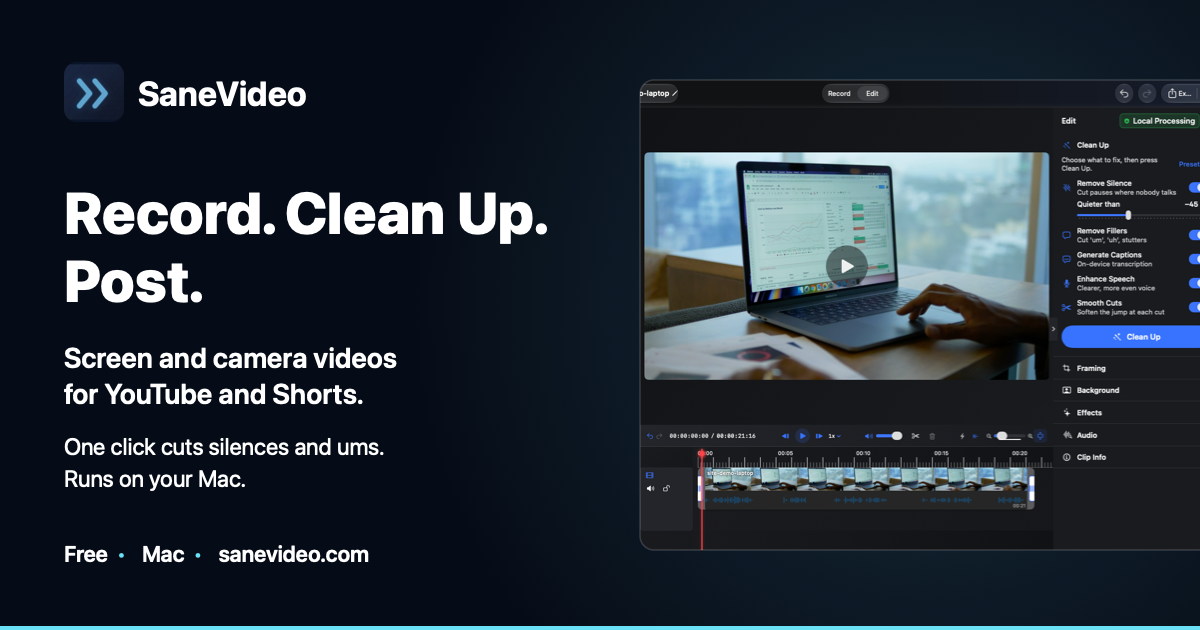
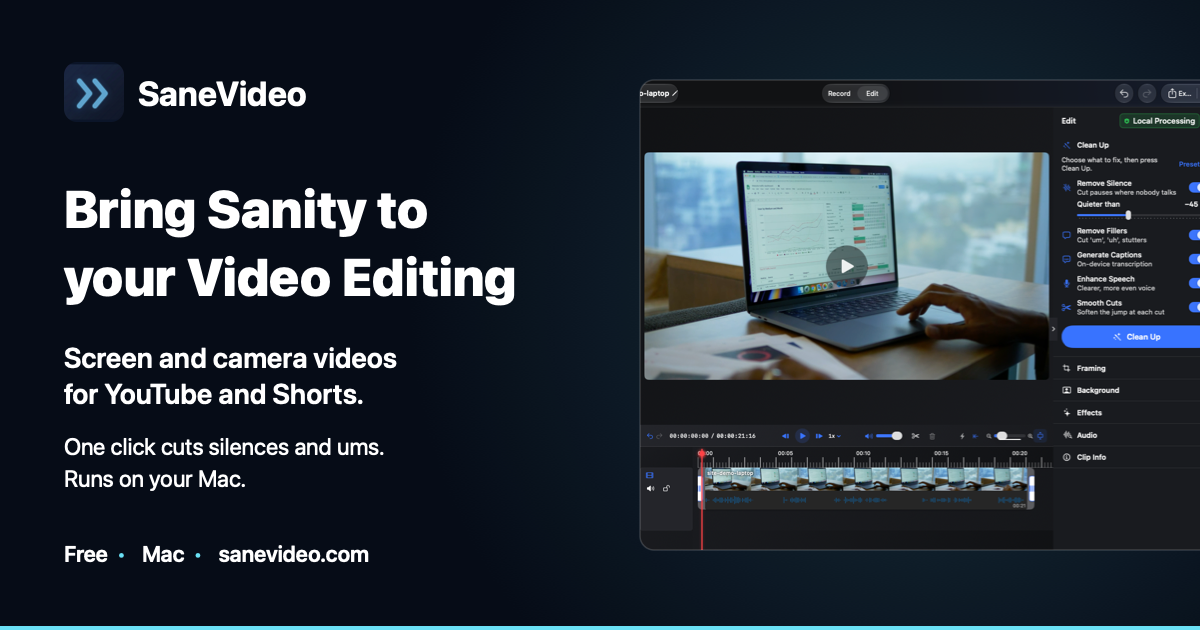
Website: "Bring Sanity to your Video Editing" headline like every SaneApps site; GitHub in the menus

Changed region(s): [[0.0308, 0.3016, 0.4625, 0.4825]]

diff --git a/docs/index.html b/docs/index.html
@@ -13,8 +13,8 @@
   <meta property="og:url" content="https://sanevideo.com/">
   <meta property="og:title" content="SaneVideo: Screen and Camera Recorder for YouTube on Mac">
   <meta property="og:description" content="Record your screen with your camera in a bubble. One click cuts the silences and ums. Captions, YouTube exports and vertical Shorts, all made on your Mac. Free.">
-  <meta property="og:image" content="https://sanevideo.com/images/og-image.png?v=20261024">
-  <meta property="og:image:secure_url" content="https://sanevideo.com/images/og-image.png?v=20261024">
+  <meta property="og:image" content="https://sanevideo.com/images/og-image.png?v=20261024b">
+  <meta property="og:image:secure_url" content="https://sanevideo.com/images/og-image.png?v=20261024b">
   <meta property="og:image:type" content="image/png">
   <meta property="og:image:width" content="1200">
   <meta property="og:image:height" content="630">
@@ -25,7 +25,7 @@
   <meta name="twitter:url" content="https://sanevideo.com/">
   <meta name="twitter:title" content="SaneVideo: Screen and Camera Recorder for YouTube on Mac">
   <meta name="twitter:description" content="Record your screen with your camera in a bubble. One click cuts the silences and ums. Captions, YouTube exports and vertical Shorts, all made on your Mac. Free.">
-  <meta name="twitter:image" content="https://sanevideo.com/images/og-image.png?v=20261024">
+  <meta name="twitter:image" content="https://sanevideo.com/images/og-image.png?v=20261024b">
   <meta name="twitter:image:alt" content="SaneVideo: Record. Clean Up. Post. Screen and camera videos for YouTube and Shorts, with the SaneVideo editor beside the text.">
   <link rel="icon" type="image/png" sizes="32x32" href="/images/favicon-32.png">
   <link rel="apple-touch-icon" href="/images/apple-touch-icon.png">
@@ -43,7 +43,7 @@
         "url": "https://sanevideo.com/",
         "downloadUrl": "https://sanevideo.com/download",
         "installUrl": "https://apps.apple.com/us/app/sanevideo/id6770294375",
-        "image": "https://sanevideo.com/images/og-image.png?v=20261024",
+        "image": "https://sanevideo.com/images/og-image.png?v=20261024b",
         "screenshot": [
           "https://sanevideo.com/images/sanevideo-editor-1398.webp",
           "https://sanevideo.com/images/sanevideo-timeline-after.webp",
@@ -113,6 +113,7 @@
         <a href="/#features">Features</a>
         <a href="/#price">Price</a>
         <a href="/support">Support</a>
+        <a href="https://github.com/sane-apps/SaneVideo">GitHub</a>
         <a class="button small" href="/download">Download</a>
       </nav>
       <details class="menu">
@@ -123,6 +124,7 @@
           <a href="/#price">Price</a>
           <a href="/download">Download</a>
           <a href="/support">Support</a>
+          <a href="https://github.com/sane-apps/SaneVideo">GitHub</a>
           <a href="/privacy">Privacy</a>
         </div>
       </details>
@@ -133,13 +135,13 @@
     <section class="hero" aria-labelledby="hero-title">
       <div class="wrap">
         <div>
-          <h1 id="hero-title">Record your screen and face.</h1>
-          <p class="lead">One click cuts the silences and ums. Captions and Shorts, made on your Mac.</p>
+          <h1 id="hero-title">Bring <em>Sanity</em> to your Video Editing</h1>
+          <p class="lead">Record your screen and camera. One click cuts the silences and ums. Captions and Shorts for YouTube, made on your Mac.</p>
           <div class="actions">
             <a class="button" href="/download">Download free</a>
             <a class="button ghost" href="https://apps.apple.com/us/app/sanevideo/id6770294375">Mac App Store</a>
           </div>
-          <p class="facts"><span>Free</span><span>macOS 26 or later</span><span>Apple silicon</span><span>100% Transparent Code</span></p>
+          <p class="facts"><span>Free</span><span>macOS 26 or later</span><span>Apple silicon</span><span><a href="https://github.com/sane-apps/SaneVideo">100% Transparent Code</a></span></p>
         </div>
         <figure class="shot" style="margin:0">
           <img src="/images/sanevideo-editor-1398.webp"

diff --git a/docs/support.html b/docs/support.html
@@ -12,8 +12,8 @@
   <meta property="og:url" content="https://sanevideo.com/support">
   <meta property="og:title" content="SaneVideo Support: Recording, Clean Up and Export Help">
   <meta property="og:description" content="Get help with SaneVideo: screen recording permission, camera problems, Clean Up, captions and where exports go. Report a bug from the app or email us.">
-  <meta property="og:image" content="https://sanevideo.com/images/og-image.png?v=20261024">
-  <meta property="og:image:secure_url" content="https://sanevideo.com/images/og-image.png?v=20261024">
+  <meta property="og:image" content="https://sanevideo.com/images/og-image.png?v=20261024b">
+  <meta property="og:image:secure_url" content="https://sanevideo.com/images/og-image.png?v=20261024b">
   <meta property="og:image:type" content="image/png">
   <meta property="og:image:width" content="1200">
   <meta property="og:image:height" content="630">
@@ -23,7 +23,7 @@
   <meta name="twitter:url" content="https://sanevideo.com/support">
   <meta name="twitter:title" content="SaneVideo Support: Recording, Clean Up and Export Help">
   <meta name="twitter:description" content="Get help with SaneVideo: screen recording permission, camera problems, Clean Up, captions and where exports go. Report a bug from the app or email us.">
-  <meta name="twitter:image" content="https://sanevideo.com/images/og-image.png?v=20261024">
+  <meta name="twitter:image" content="https://sanevideo.com/images/og-image.png?v=20261024b">
   <meta name="twitter:image:alt" content="SaneVideo: Record. Clean Up. Post. Screen and camera videos for YouTube and Shorts, with the SaneVideo editor beside the text.">
   <link rel="icon" type="image/png" sizes="32x32" href="/images/favicon-32.png">
   <link rel="apple-touch-icon" href="/images/apple-touch-icon.png">
@@ -51,6 +51,7 @@
         <a href="/#features">Features</a>
         <a href="/#price">Price</a>
         <a href="/support" aria-current="page">Support</a>
+        <a href="https://github.com/sane-apps/SaneVideo">GitHub</a>
         <a class="button small" href="/download">Download</a>
       </nav>
       <details class="menu">
@@ -106,6 +107,7 @@
           <a href="/download">Download</a>
           <a href="https://apps.apple.com/us/app/sanevideo/id6770294375">Mac App Store</a>
           <a href="/support">Support</a>
+          <a href="https://github.com/sane-apps/SaneVideo">GitHub</a>
           <a href="/privacy">Privacy</a>
           <a href="https://github.com/sane-apps/SaneVideo">Source on GitHub</a>
           <a href="https://github.com/sponsors/MrSaneApps">Sponsor on GitHub</a>

diff --git a/docs/privacy.html b/docs/privacy.html
@@ -12,8 +12,8 @@
   <meta property="og:url" content="https://sanevideo.com/privacy">
   <meta property="og:title" content="SaneVideo Privacy Policy">
   <meta property="og:description" content="SaneVideo keeps recording, editing, captions and export on your Mac. This policy lists what the app does send: update checks, anonymous app counts, a one-time speech model download, and support email you choose to send.">
-  <meta property="og:image" content="https://sanevideo.com/images/og-image.png?v=20261024">
-  <meta property="og:image:secure_url" content="https://sanevideo.com/images/og-image.png?v=20261024">
+  <meta property="og:image" content="https://sanevideo.com/images/og-image.png?v=20261024b">
+  <meta property="og:image:secure_url" content="https://sanevideo.com/images/og-image.png?v=20261024b">
   <meta property="og:image:type" content="image/png">
   <meta property="og:image:width" content="1200">
   <meta property="og:image:height" content="630">
@@ -23,7 +23,7 @@
   <meta name="twitter:url" content="https://sanevideo.com/privacy">
   <meta name="twitter:title" content="SaneVideo Privacy Policy">
   <meta name="twitter:description" content="SaneVideo keeps recording, editing, captions and export on your Mac. This policy lists what the app does send: update checks, anonymous app counts, a one-time speech model download, and support email you choose to send.">
-  <meta name="twitter:image" content="https://sanevideo.com/images/og-image.png?v=20261024">
+  <meta name="twitter:image" content="https://sanevideo.com/images/og-image.png?v=20261024b">
   <meta name="twitter:image:alt" content="SaneVideo: Record. Clean Up. Post. Screen and camera videos for YouTube and Shorts, with the SaneVideo editor beside the text.">
   <link rel="icon" type="image/png" sizes="32x32" href="/images/favicon-32.png">
   <link rel="apple-touch-icon" href="/images/apple-touch-icon.png">
@@ -51,6 +51,7 @@
         <a href="/#features">Features</a>
         <a href="/#price">Price</a>
         <a href="/support">Support</a>
+        <a href="https://github.com/sane-apps/SaneVideo">GitHub</a>
         <a class="button small" href="/download">Download</a>
       </nav>
       <details class="menu">
@@ -61,6 +62,7 @@
           <a href="/#price">Price</a>
           <a href="/download">Download</a>
           <a href="/support">Support</a>
+          <a href="https://github.com/sane-apps/SaneVideo">GitHub</a>
           <a href="/privacy" aria-current="page">Privacy</a>
         </div>
       </details>

diff --git a/docs/download.html b/docs/download.html
@@ -12,8 +12,8 @@
   <meta property="og:url" content="https://sanevideo.com/download">
   <meta property="og:title" content="Download SaneVideo for Mac (Free)">
   <meta property="og:description" content="Download SaneVideo free for Macs with Apple silicon and macOS 26 or later, or get it from the Mac App Store. Install steps and a first test inside.">
-  <meta property="og:image" content="https://sanevideo.com/images/og-image.png?v=20261024">
-  <meta property="og:image:secure_url" content="https://sanevideo.com/images/og-image.png?v=20261024">
+  <meta property="og:image" content="https://sanevideo.com/images/og-image.png?v=20261024b">
+  <meta property="og:image:secure_url" content="https://sanevideo.com/images/og-image.png?v=20261024b">
   <meta property="og:image:type" content="image/png">
   <meta property="og:image:width" content="1200">
   <meta property="og:image:height" content="630">
@@ -23,7 +23,7 @@
   <meta name="twitter:url" content="https://sanevideo.com/download">
   <meta name="twitter:title" content="Download SaneVideo for Mac (Free)">
   <meta name="twitter:description" content="Download SaneVideo free for Macs with Apple silicon and macOS 26 or later, or get it from the Mac App Store. Install steps and a first test inside.">
-  <meta name="twitter:image" content="https://sanevideo.com/images/og-image.png?v=20261024">
+  <meta name="twitter:image" content="https://sanevideo.com/images/og-image.png?v=20261024b">
   <meta name="twitter:image:alt" content="SaneVideo: Record. Clean Up. Post. Screen and camera videos for YouTube and Shorts, with the SaneVideo editor beside the text.">
   <link rel="icon" type="image/png" sizes="32x32" href="/images/favicon-32.png">
   <link rel="apple-touch-icon" href="/images/apple-touch-icon.png">
@@ -51,6 +51,7 @@
         <a href="/#features">Features</a>
         <a href="/#price">Price</a>
         <a href="/support">Support</a>
+        <a href="https://github.com/sane-apps/SaneVideo">GitHub</a>
         <a class="button small" href="/download" aria-current="page">Download</a>
       </nav>
       <details class="menu">
@@ -61,6 +62,7 @@
           <a href="/#price">Price</a>
           <a href="/download" aria-current="page">Download</a>
           <a href="/support">Support</a>
+          <a href="https://github.com/sane-apps/SaneVideo">GitHub</a>
           <a href="/privacy">Privacy</a>
         </div>
       </details>

diff --git a/scripts/generate_og_image.swift b/scripts/generate_og_image.swift
@@ -106,8 +106,8 @@ ctx.strokePath()
 // Text column.
 drawImage("\(docsImages)/icon.png", in: CGRect(x: 64, y: 62, width: 60, height: 60), radius: 13)
 drawText("SaneVideo", x: 138, y: 72, size: 34, weight: .bold, color: white)
-drawText("Record. Clean Up.", x: 64, y: 176, size: 58, weight: .heavy, color: white)
-drawText("Post.", x: 64, y: 244, size: 58, weight: .heavy, color: white)
+drawText("Bring Sanity to", x: 64, y: 176, size: 52, weight: .heavy, color: white)
+drawText("your Video Editing", x: 64, y: 244, size: 52, weight: .heavy, color: white)
 drawText("Screen and camera videos", x: 64, y: 340, size: 28, weight: .semibold, color: white)
 drawText("for YouTube and Shorts.", x: 64, y: 376, size: 28, weight: .semibold, color: white)
 drawText("One click cuts silences and ums.", x: 64, y: 432, size: 23, weight: .regular, color: white)

diff --git a/docs/site.css b/docs/site.css
@@ -82,6 +82,7 @@ p { margin: 0; }
 .hero { padding: 72px 0 64px; border-bottom: 1px solid var(--line); background: radial-gradient(1000px 520px at 78% 20%, rgba(92, 219, 242, 0.09), transparent 70%); }
 .hero .wrap { display: grid; grid-template-columns: minmax(0, 0.85fr) minmax(0, 1.15fr); gap: 48px; align-items: center; }
 .hero h1 { font-size: clamp(40px, 5.2vw, 64px); }
+.hero h1 em { font-style: normal; color: var(--accent, #5CDBF2); }
 .hero .lead { margin-top: 20px; font-size: clamp(19px, 1.7vw, 23px); line-height: 1.5; max-width: 30ch; }
 .hero .actions { margin-top: 30px; }
 .facts { margin-top: 22px; font-size: 15px; font-weight: 600; }

diff --git a/docs/404.html b/docs/404.html
@@ -19,6 +19,7 @@
         <a href="/#features">Features</a>
         <a href="/#price">Price</a>
         <a href="/support">Support</a>
+        <a href="https://github.com/sane-apps/SaneVideo">GitHub</a>
         <a class="button small" href="/download">Download</a>
       </nav>
       <details class="menu">
@@ -29,6 +30,7 @@
           <a href="/#price">Price</a>
           <a href="/download">Download</a>
           <a href="/support">Support</a>
+          <a href="https://github.com/sane-apps/SaneVideo">GitHub</a>
           <a href="/privacy">Privacy</a>
         </div>
       </details>
